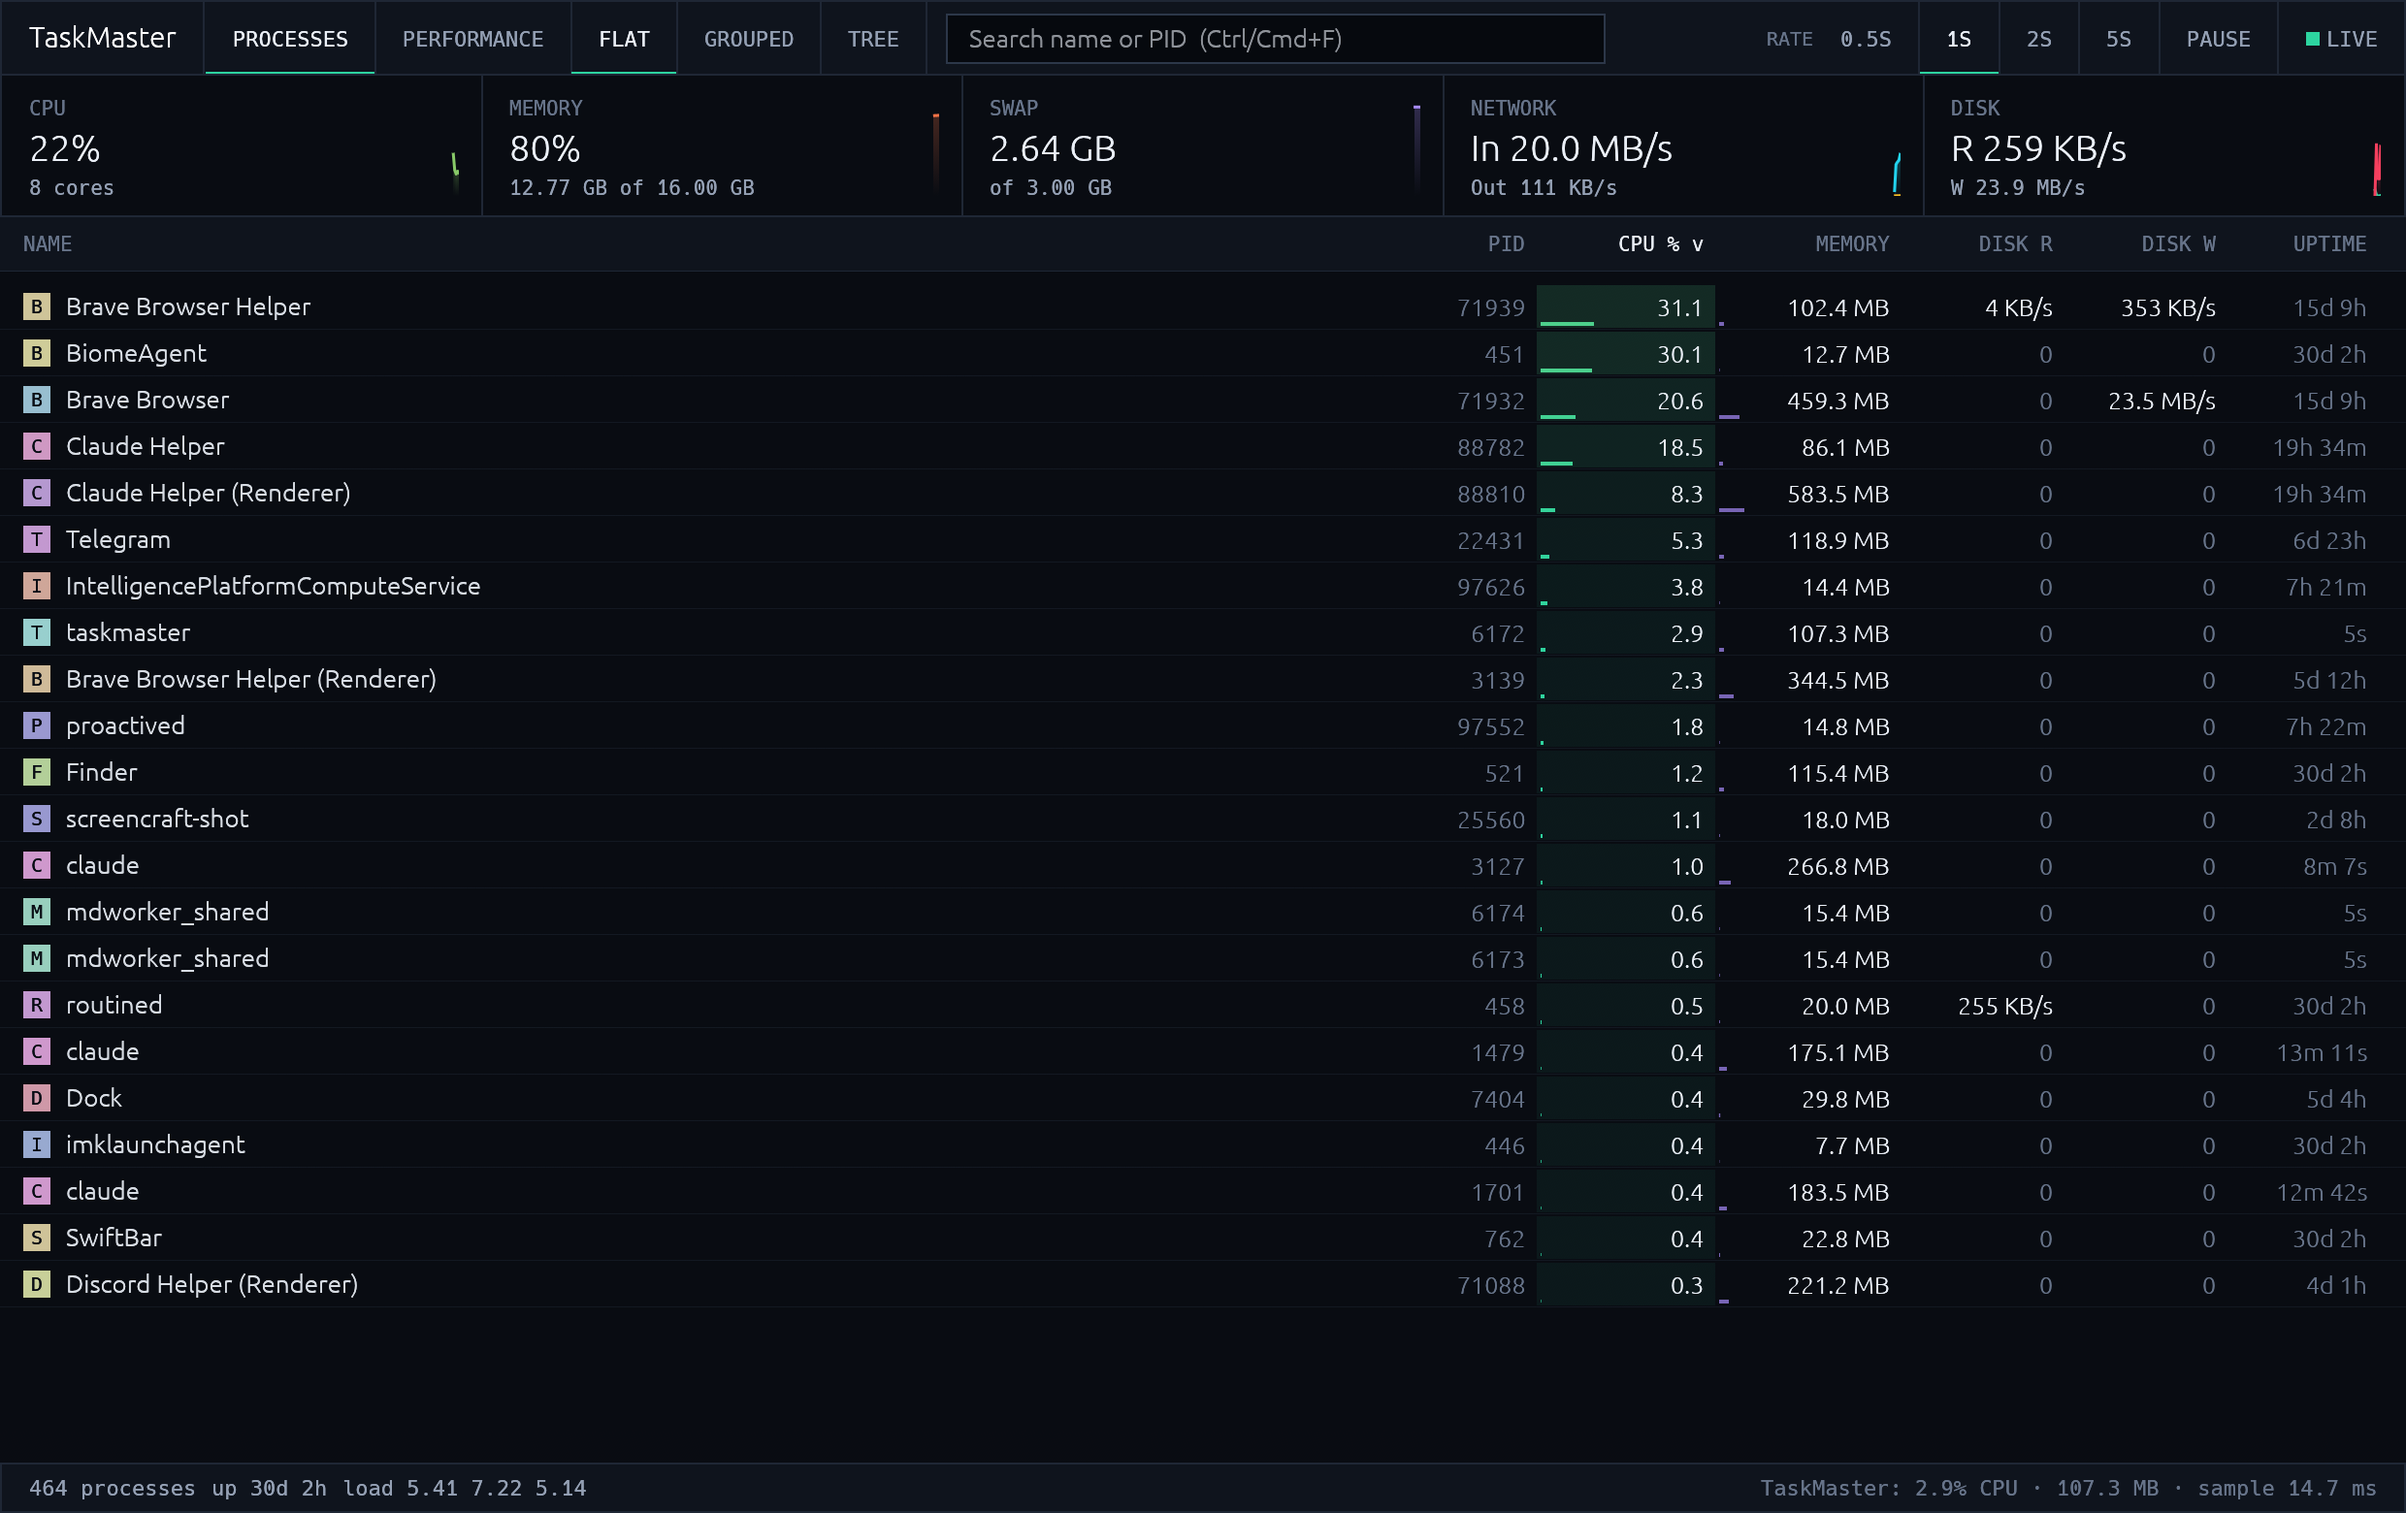
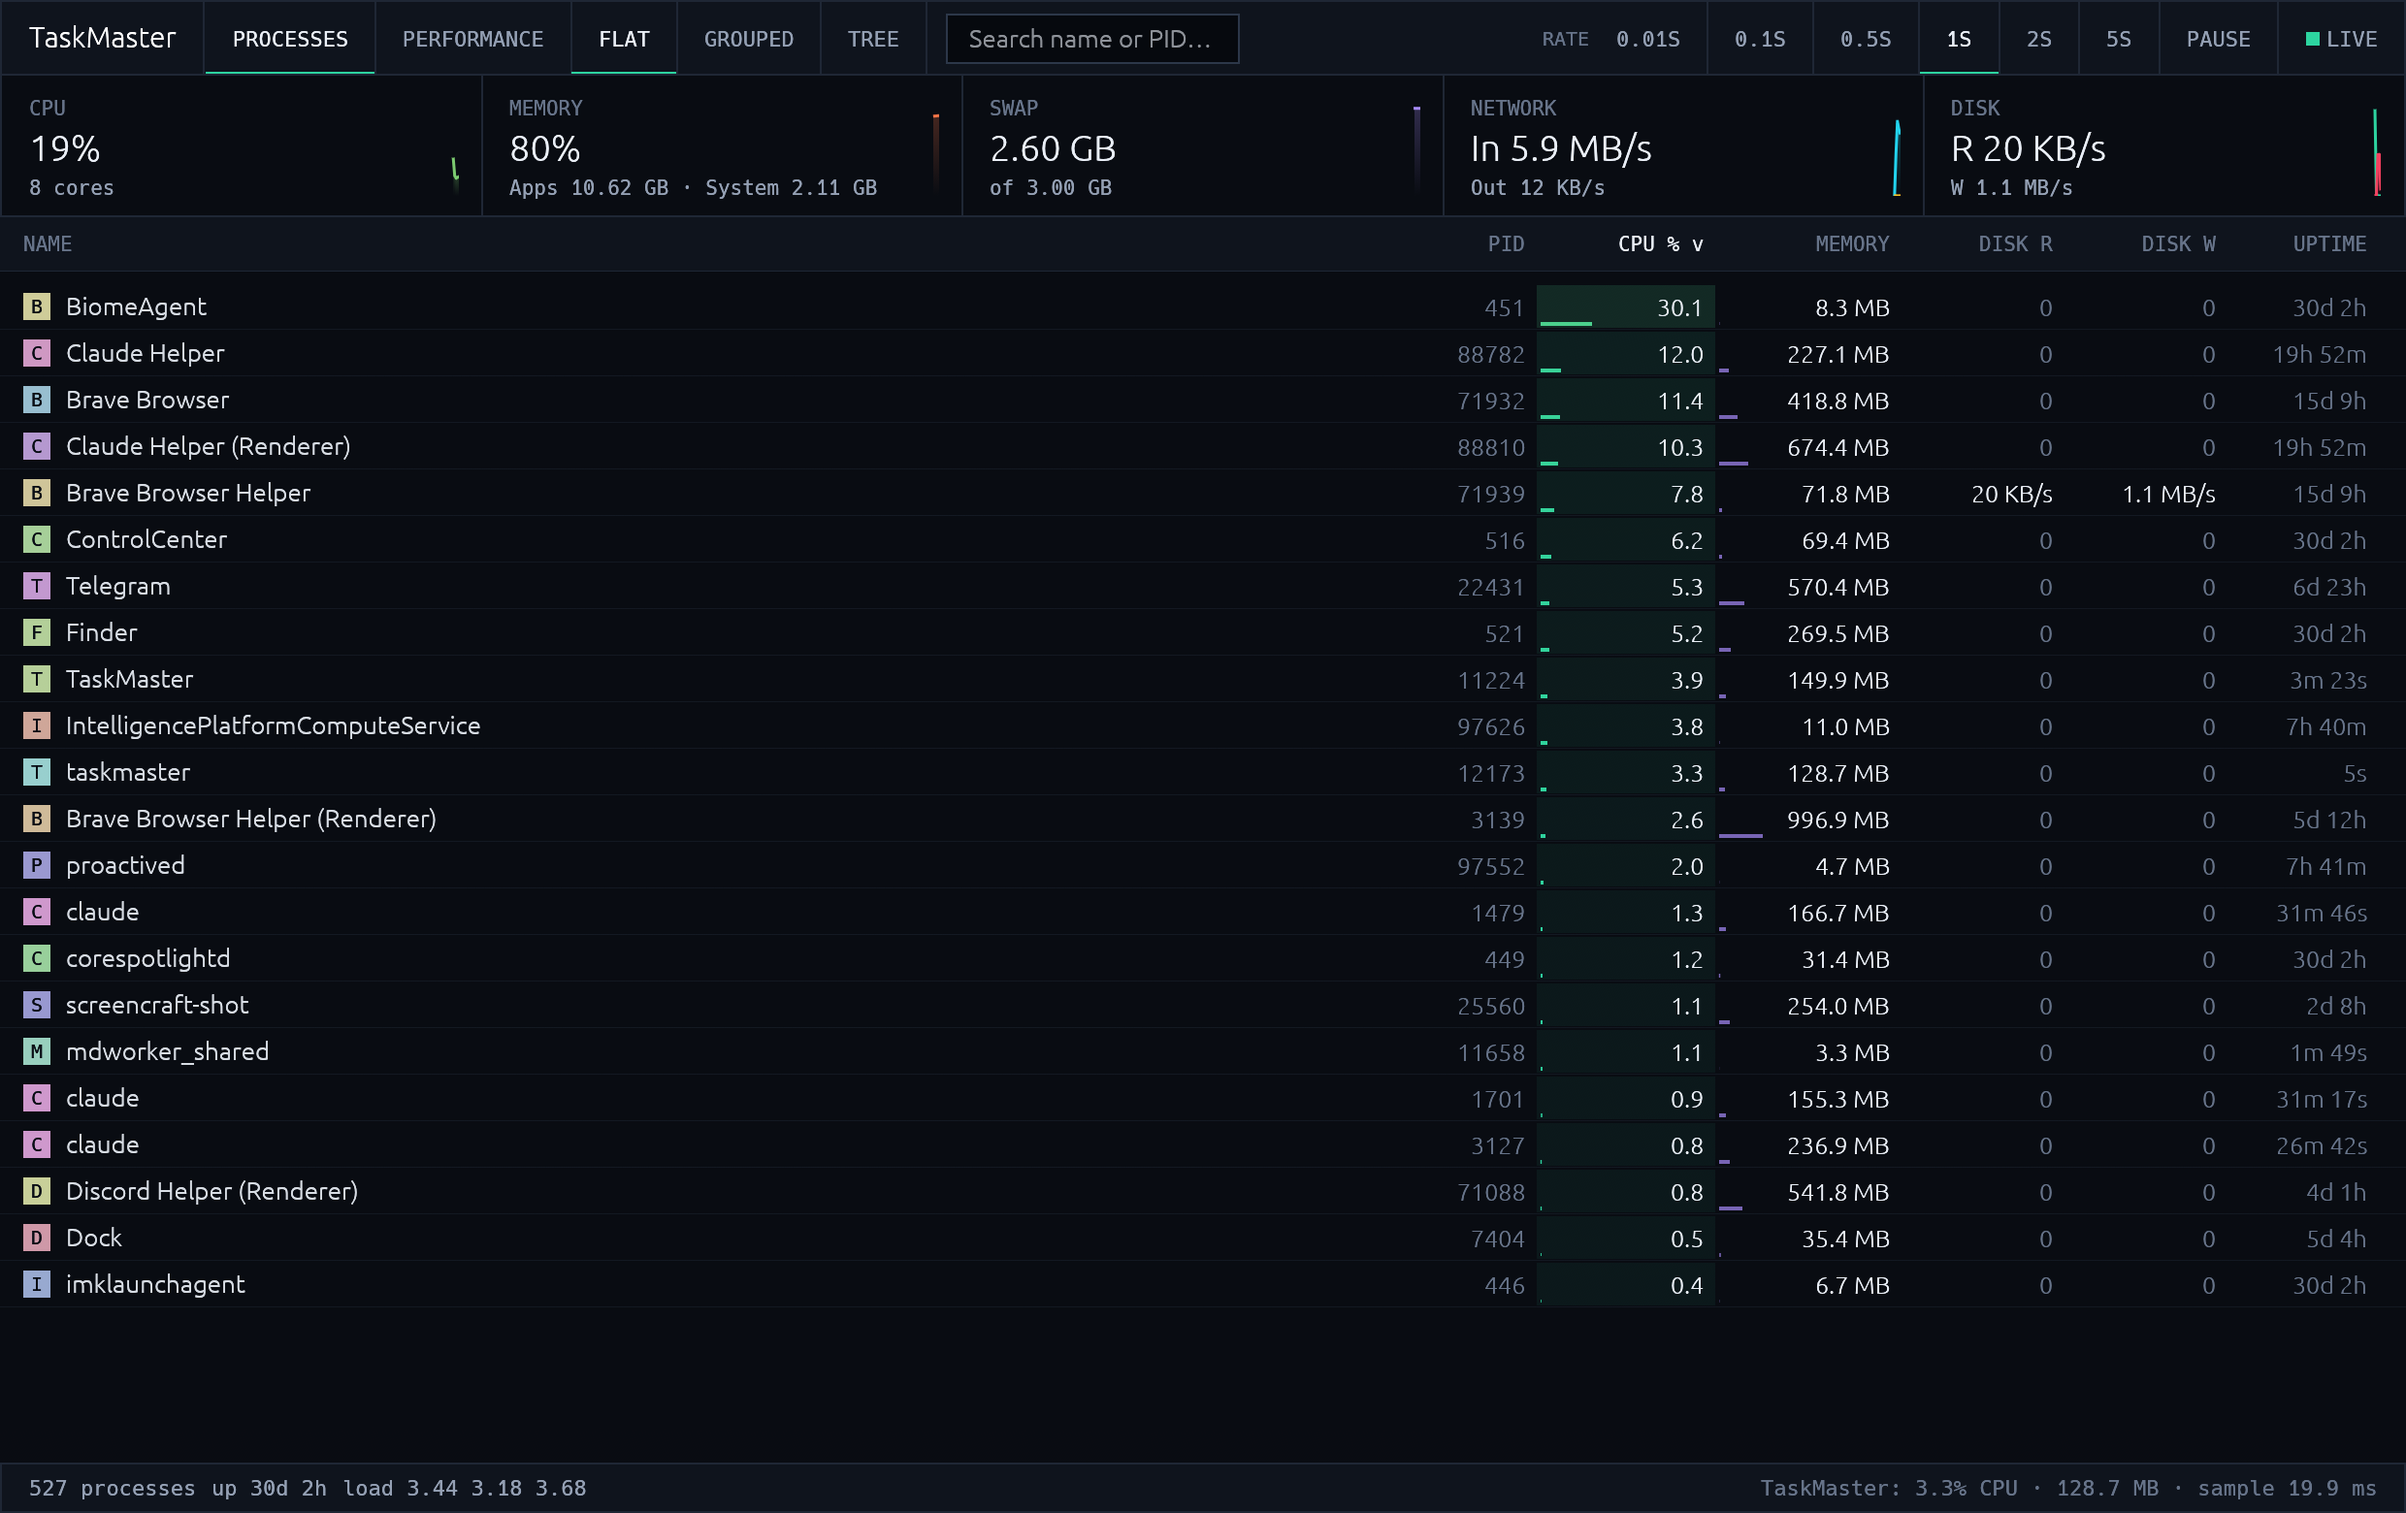
Release 0.1.2: footprint memory, apps/system split, Intel build on macos-14

diff --git a/website/index.html b/website/index.html
@@ -64,6 +64,7 @@
   <dl class="deflist">
     <div><dt>Live process table</dt><dd>PID, CPU, memory, disk read and write, and uptime, sortable and searchable.</dd></div>
     <div><dt>Flat, grouped, tree</dt><dd>Collapse helper processes into their app, or follow the parent and child tree.</dd></div>
+    <div><dt>Honest memory</dt><dd>Per-process footprint like Activity Monitor, with apps and system (kernel, compressed) split out.</dd></div>
     <div><dt>Performance charts</dt><dd>Two minutes of CPU, per-core load, memory, network and disk history.</dd></div>
     <div><dt>Process inspector</dt><dd>Per-process CPU and memory history, parent, path and full command line.</dd></div>
     <div><dt>End or force quit</dt><dd>Ask first, then terminate or force quit. Right-click for more, Delete for speed.</dd></div>

diff --git a/src/main.rs b/src/main.rs
@@ -445,7 +445,7 @@ impl eframe::App for App {
                             }
                         }
                         ui.add_space(10.0);
-                        let w = (ui.available_width() - 380.0).clamp(120.0, 340.0);
+                        let w = (ui.available_width() - 600.0).clamp(100.0, 340.0);
                         let r = ui.add_sized(
                             [w, 26.0],
                             egui::TextEdit::singleline(&mut self.query).id(search_id).hint_text("Search name or PID  (Ctrl/Cmd+F)").align(Align2::LEFT_CENTER),
@@ -582,7 +582,7 @@ impl App {
         let mem_pct = s.mem_used as f32 * 100.0 / s.mem_total.max(1) as f32;
         let cells: [(&str, String, String, Vec<(&VecDeque<f32>, Color32)>, Option<f32>); 5] = [
             ("CPU", format!("{:.0}%", s.cpu_total), format!("{} cores", s.cores.len()), vec![(&h.cpu, heat(s.cpu_total / 100.0))], Some(100.0)),
-            ("Memory", format!("{:.0}%", mem_pct), format!("{} of {}", fmt_bytes(s.mem_used), fmt_bytes(s.mem_total)), vec![(&h.mem, heat(mem_pct / 100.0))], Some(100.0)),
+            ("Memory", format!("{:.0}%", mem_pct), format!("Apps {} · System {}", fmt_bytes(s.mem_apps.min(s.mem_used)), fmt_bytes(s.mem_used.saturating_sub(s.mem_apps))), vec![(&h.mem, heat(mem_pct / 100.0))], Some(100.0)),
             ("Swap", fmt_bytes(s.swap_used), format!("of {}", fmt_bytes(s.swap_total)), vec![(&h.swap, VIOLET)], Some(100.0)),
             ("Network", format!("In {}", fmt_rate(s.net_rx)), format!("Out {}", fmt_rate(s.net_tx)), vec![(&h.rx, CYAN), (&h.tx, AMBER)], None),
             ("Disk", format!("R {}", fmt_rate(s.disk_read)), format!("W {}", fmt_rate(s.disk_write)), vec![(&h.dr, ACCENT), (&h.dw, RED)], None),
@@ -902,7 +902,7 @@ impl App {
                 graph(ui, vec2(tw, 190.0), "Network", &format!("In {}  Out {}", fmt_rate(s.net_rx), fmt_rate(s.net_tx)), &[(&h.rx, CYAN), (&h.tx, AMBER)], None, &|v| fmt_rate(v));
                 graph(ui, vec2(tw, 190.0), "Disk I/O", &format!("R {}  W {}", fmt_rate(s.disk_read), fmt_rate(s.disk_write)), &[(&h.dr, ACCENT), (&h.dw, RED)], None, &|v| fmt_rate(v));
             });
-            ui.label(RichText::new(format!("Swap {} of {}  ·  history covers the last {} samples", fmt_bytes(s.swap_used), fmt_bytes(s.swap_total), HISTORY)).monospace().size(11.0).color(FAINT));
+            ui.label(RichText::new(format!("Apps {} · System (kernel, wired, compressed) {}  ·  Swap {} of {}  ·  history covers the last {} samples", fmt_bytes(s.mem_apps.min(s.mem_used)), fmt_bytes(s.mem_used.saturating_sub(s.mem_apps)), fmt_bytes(s.swap_used), fmt_bytes(s.swap_total), HISTORY)).monospace().size(11.0).color(FAINT));
         });
     }
 }

diff --git a/src/stats.rs b/src/stats.rs
@@ -21,6 +21,19 @@ pub struct Proc {
     pub age: u64,
 }
 
+/// Physical memory footprint (what Activity Monitor reports: includes compressed pages).
+/// Falls back to `None` when the OS refuses (other users' processes) or off macOS.
+#[cfg(target_os = "macos")]
+fn footprint(pid: u32) -> Option<u64> {
+    let mut ru: libc::rusage_info_v2 = unsafe { std::mem::zeroed() };
+    let r = unsafe { libc::proc_pid_rusage(pid as i32, libc::RUSAGE_INFO_V2, &mut ru as *mut _ as *mut libc::rusage_info_t) };
+    (r == 0 && ru.ri_phys_footprint > 0).then_some(ru.ri_phys_footprint)
+}
+#[cfg(not(target_os = "macos"))]
+fn footprint(_pid: u32) -> Option<u64> {
+    None
+}
+
 #[derive(Default)]
 pub struct Detail {
     pub pid: u32,
@@ -35,6 +48,8 @@ pub struct Snapshot {
     pub cpu_total: f32,
     pub cores: Vec<f32>,
     pub mem_used: u64,
+    /// Sum of per-process footprints; `mem_used` minus this is kernel, wired and compressed memory.
+    pub mem_apps: u64,
     pub mem_total: u64,
     pub swap_used: u64,
     pub swap_total: u64,
@@ -126,8 +141,11 @@ fn run(ctx: eframe::egui::Context, cmds: Receiver<Cmd>, out: Sender<Snapshot>) {
         }
 
         let (mut dr, mut dw) = (0.0f32, 0.0f32);
+        let mut apps = 0u64;
         let mut procs = Vec::with_capacity(sys.processes().len());
         for (pid, p) in sys.processes() {
+            let mem = footprint(pid.as_u32()).unwrap_or_else(|| p.memory());
+            apps += mem;
             let du = p.disk_usage();
             let (r, w) = (du.read_bytes as f32 / dt, du.written_bytes as f32 / dt);
             dr += r;
@@ -137,7 +155,7 @@ fn run(ctx: eframe::egui::Context, cmds: Receiver<Cmd>, out: Sender<Snapshot>) {
                 ppid: p.parent().map(|x| x.as_u32()).unwrap_or(0),
                 name: p.name().to_string_lossy().into_owned(),
                 cpu: p.cpu_usage(),
-                mem: p.memory(),
+                mem: mem,
                 read: r,
                 write: w,
                 status: status_name(p.status()),
@@ -160,6 +178,7 @@ fn run(ctx: eframe::egui::Context, cmds: Receiver<Cmd>, out: Sender<Snapshot>) {
             cpu_total: sys.global_cpu_usage(),
             cores: sys.cpus().iter().map(|c| c.cpu_usage()).collect(),
             mem_used: sys.used_memory(),
+            mem_apps: apps,
             mem_total: sys.total_memory(),
             swap_used: sys.used_swap(),
             swap_total: sys.total_swap(),

diff --git a/README.md b/README.md
@@ -29,7 +29,8 @@
 
 - **Live process table**: PID, CPU, memory, disk read/write and uptime, sortable and searchable, with heat bars that show what is burning resources.
 - **Flat, Grouped or Tree**: collapse helper processes into their app, or follow the parent/child tree.
-- **Summary strip**: CPU, memory, swap, network and disk with sparklines, always visible.
+- **Summary strip**: CPU, memory, swap, network and disk with sparklines, always visible. Memory is split into apps and system (kernel, wired, compressed) so the total adds up.
+- **Activity Monitor-accurate memory**: per-process memory is the physical footprint on macOS, which includes compressed pages (falls back to resident size when the OS refuses).
 - **Performance tab**: two minutes of history for CPU, per-core load, memory, network and disk.
 - **Process inspector**: per-process CPU and memory history, parent (click to jump), path and full command line.
 - **End task / Force quit**, always with a confirmation.
